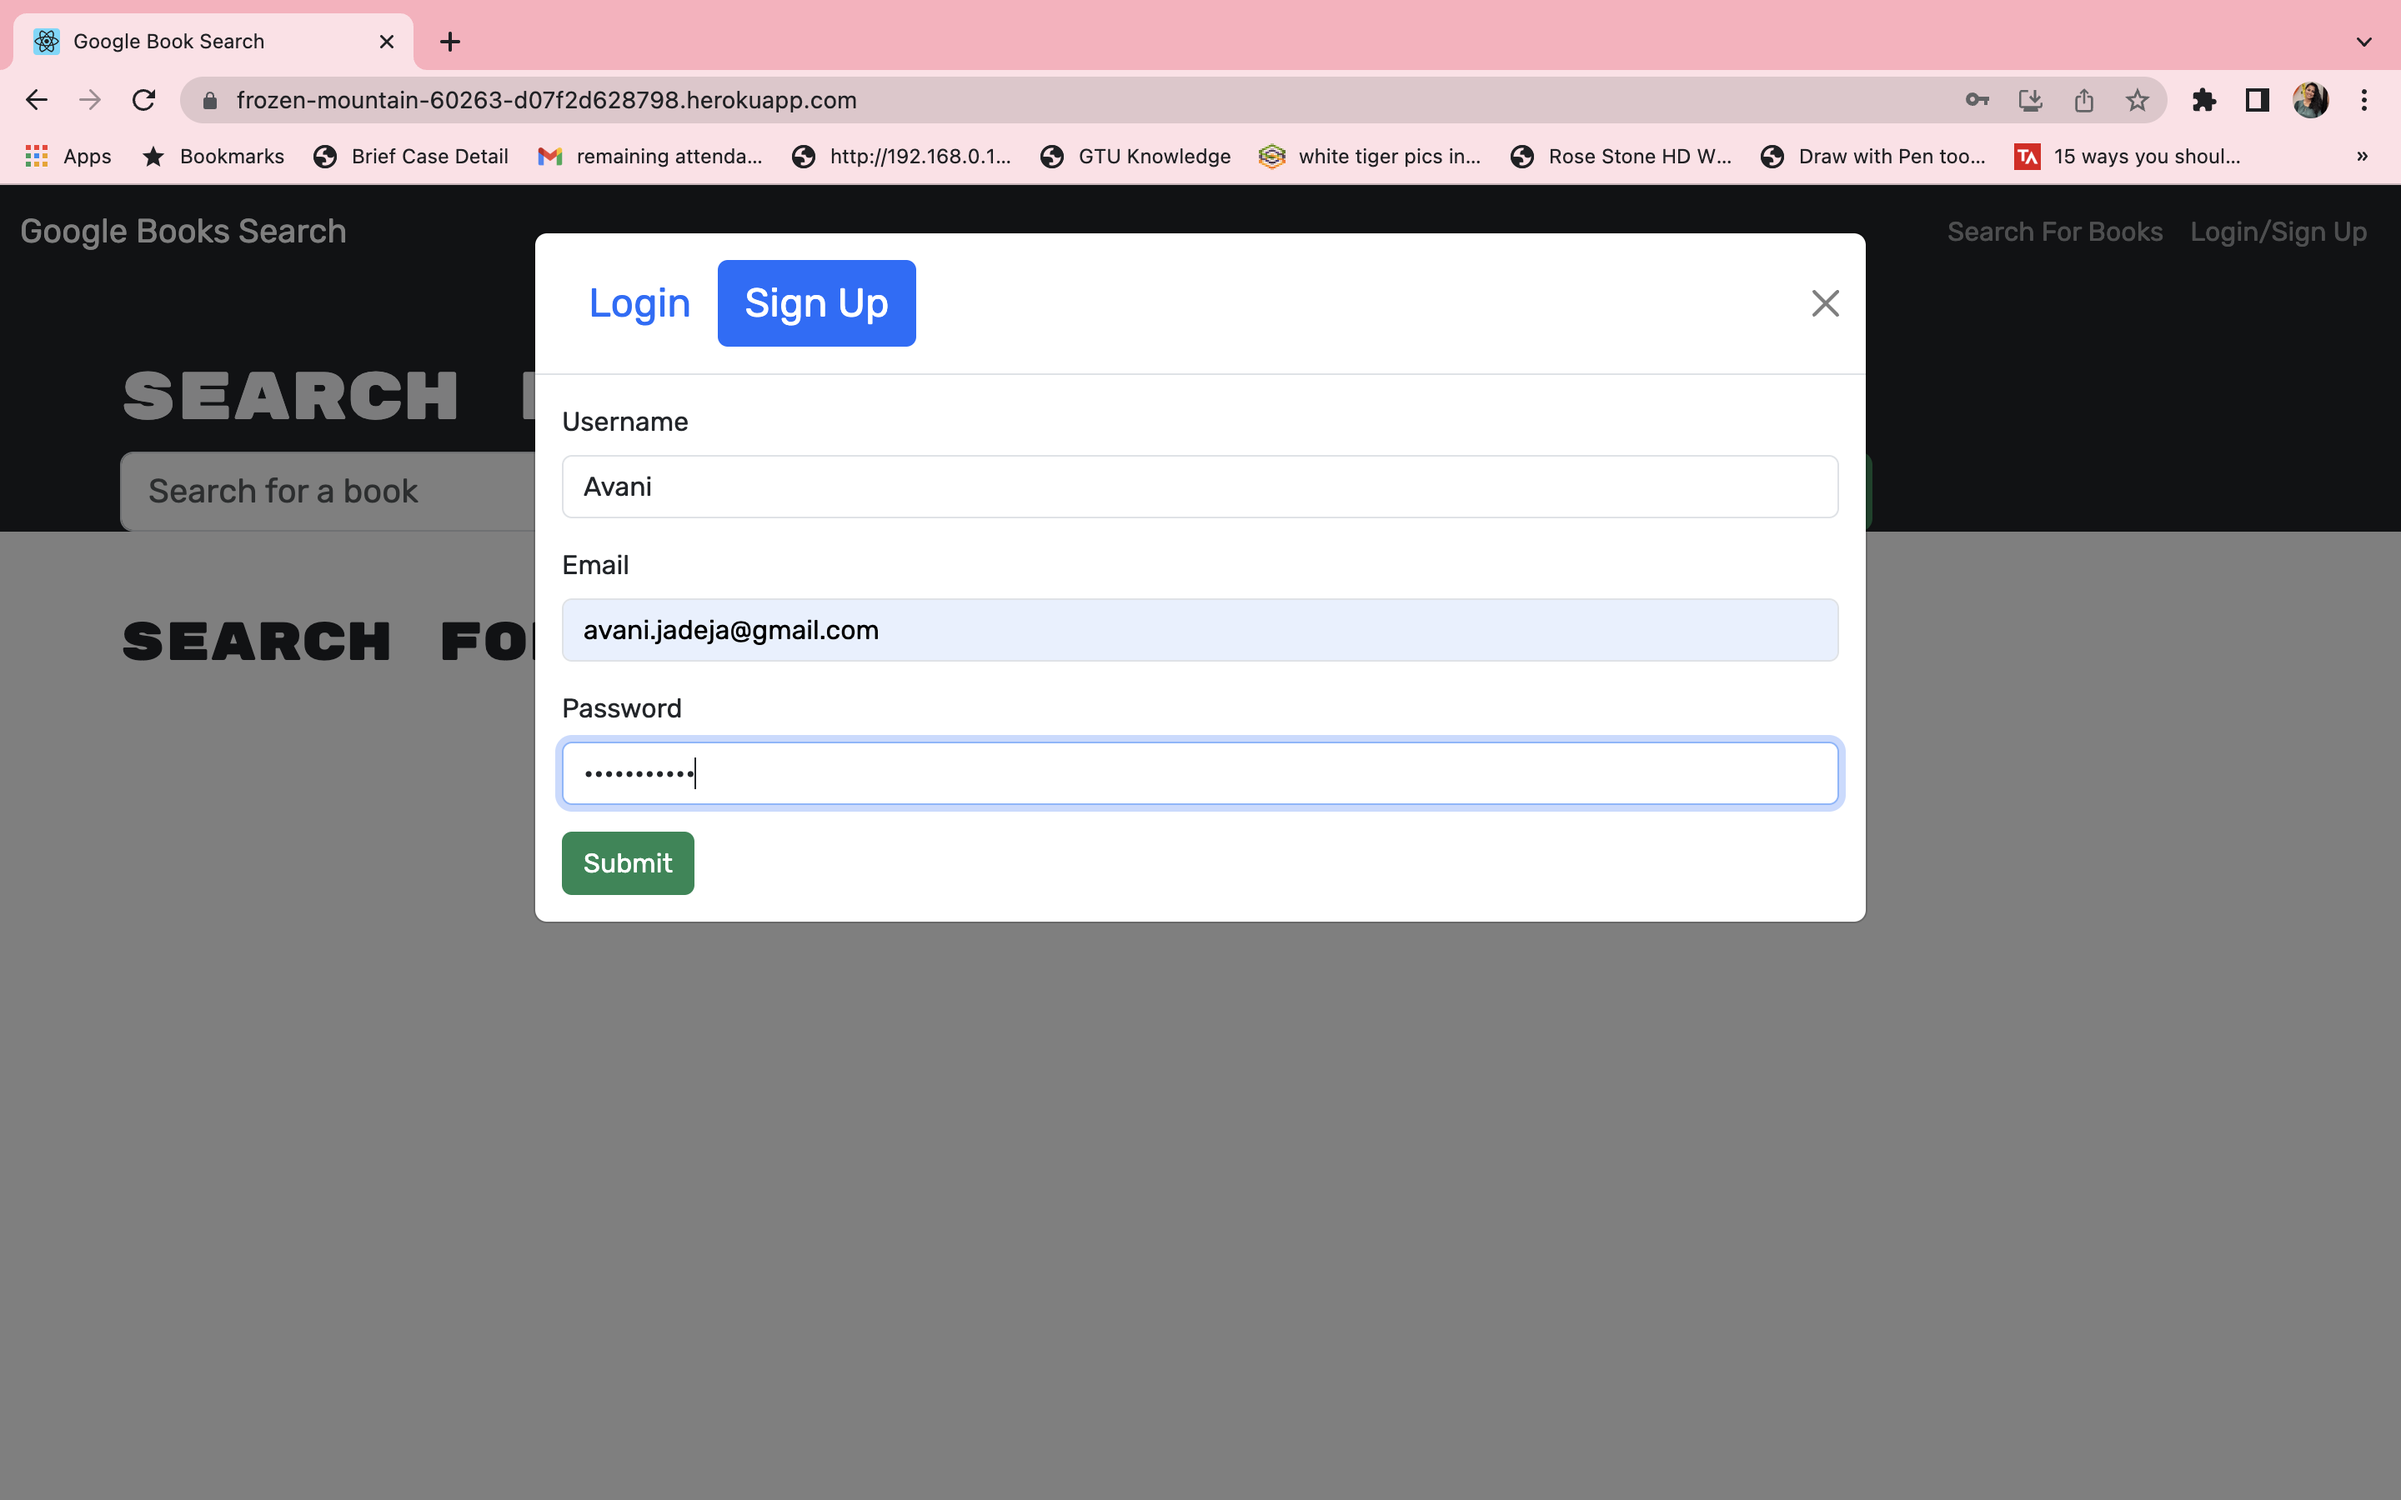
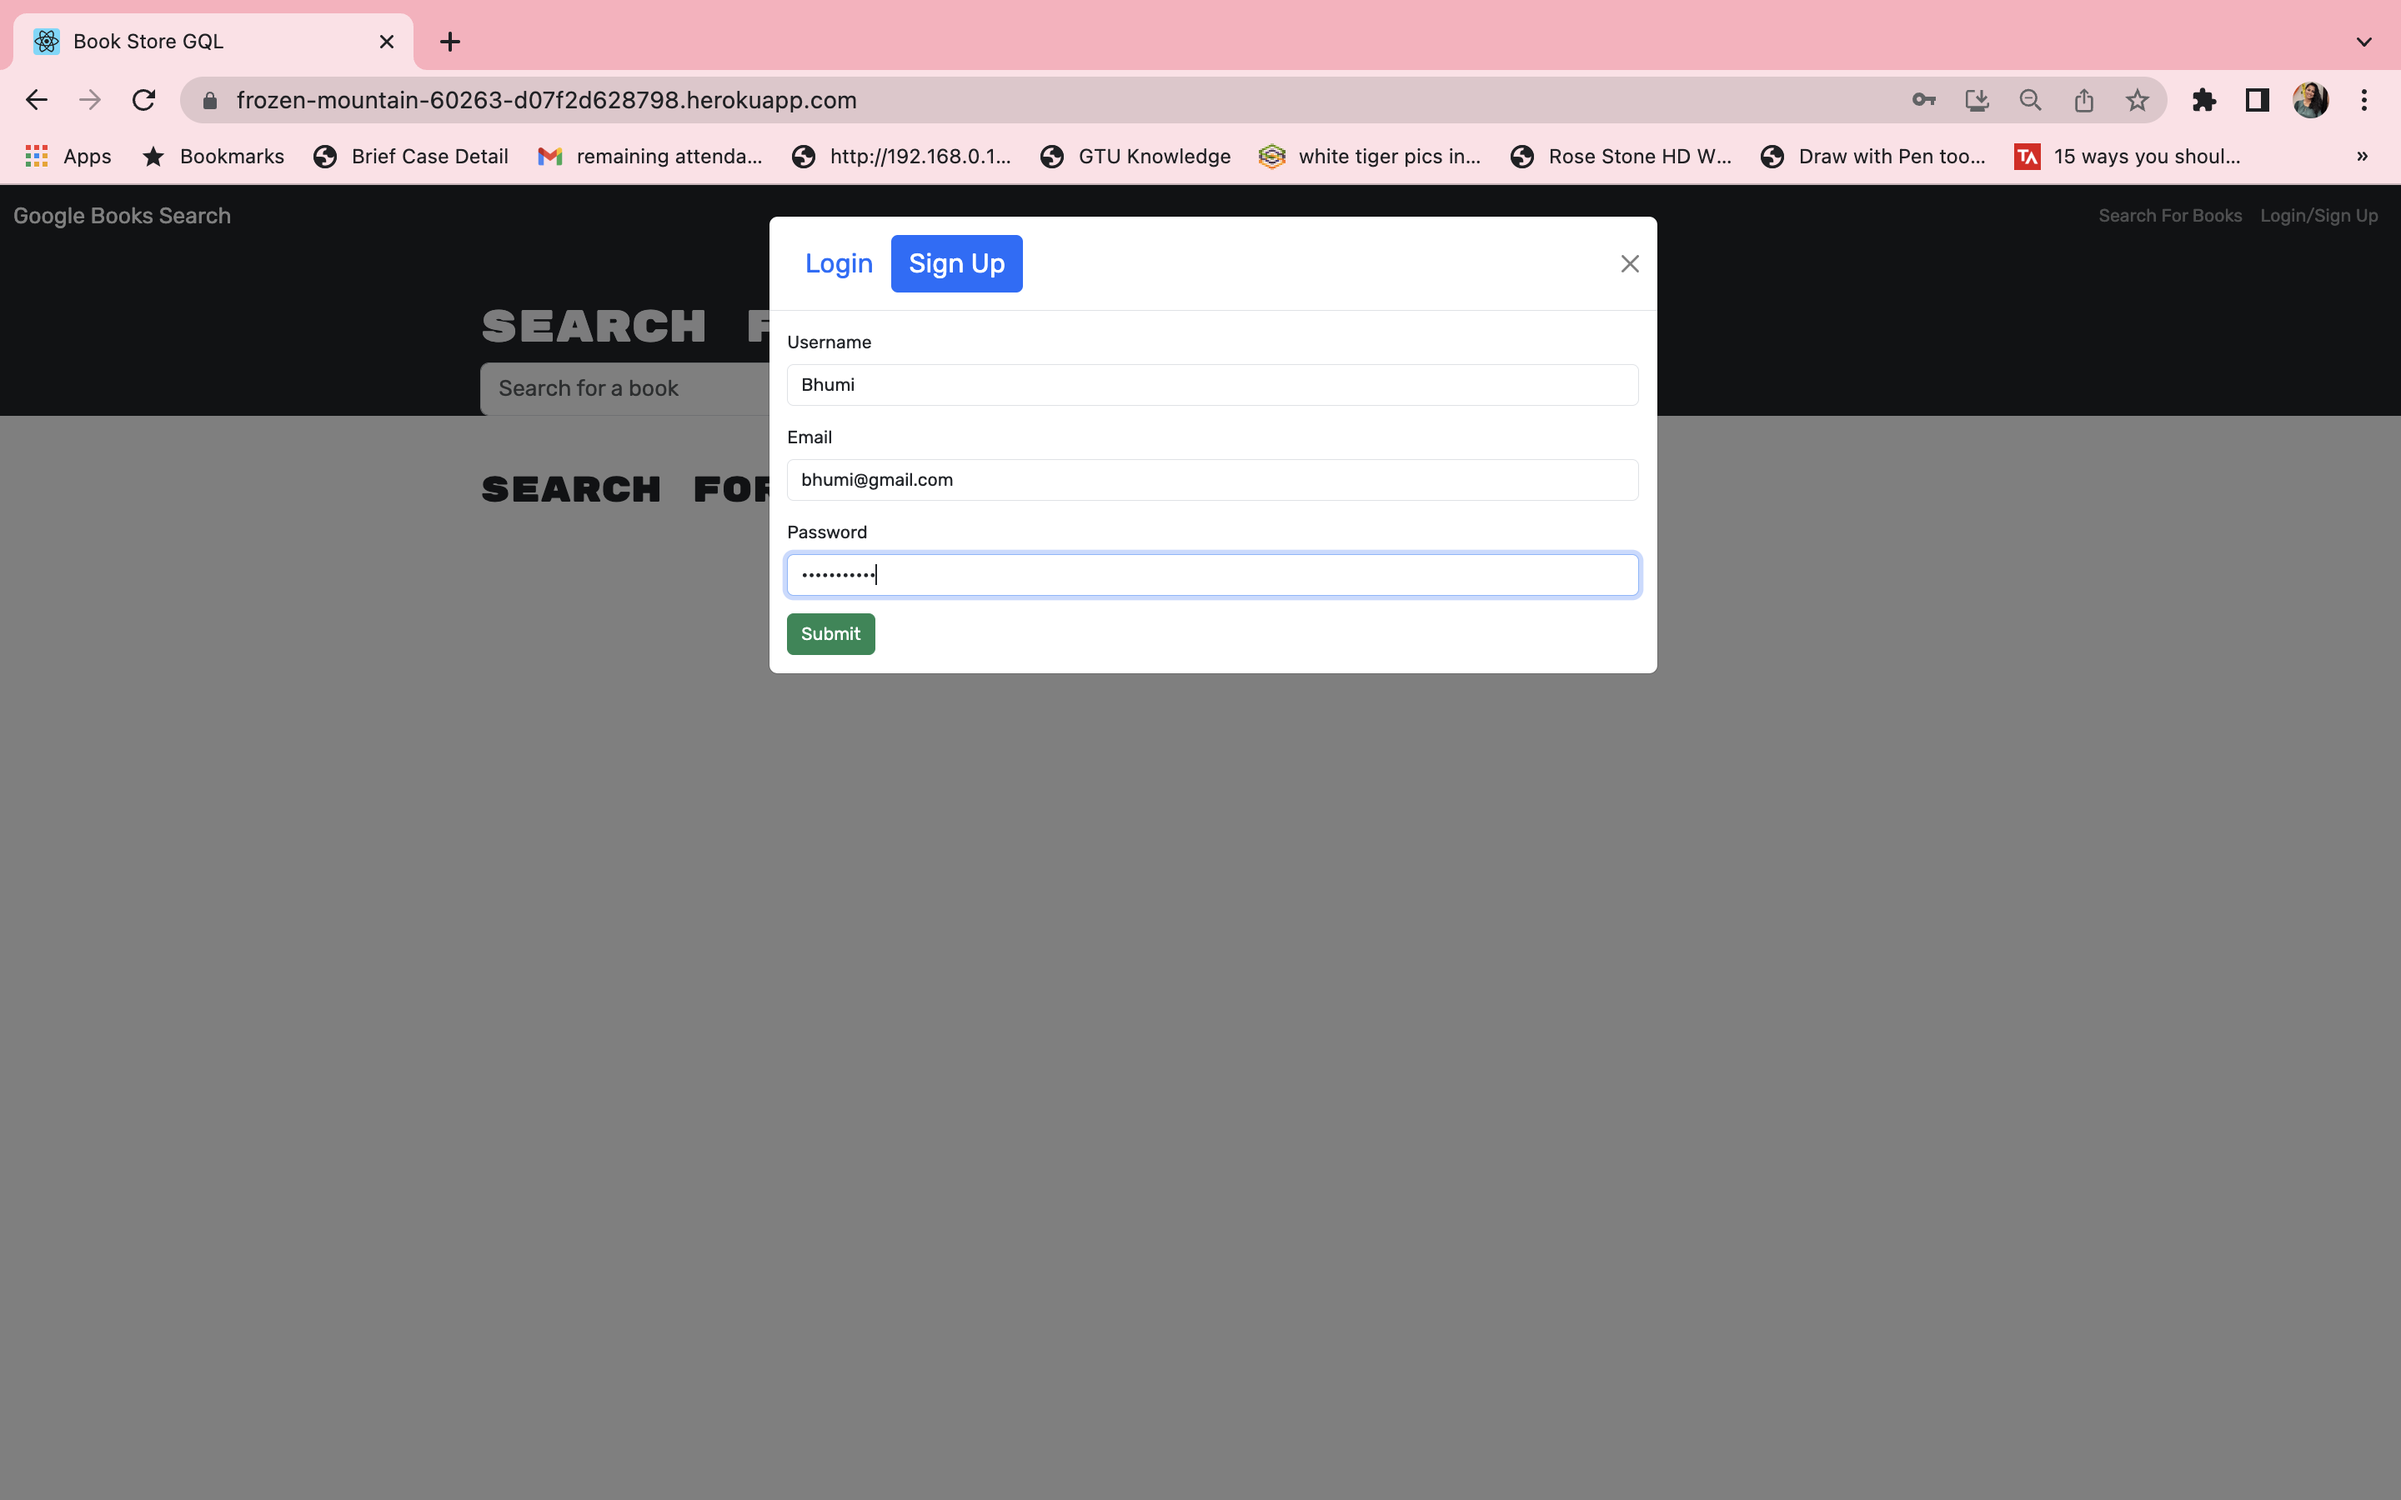
Added screenshot and gif

diff --git a/client/src/assets/SignupForm.js b/client/src/assets/SignupForm.js
@@ -1,0 +1,138 @@
+// import react and useState
+import React, { useState } from "react";
+import { Form, Button, Alert } from "react-bootstrap";
+// import useMutation form apollo/client
+import { useMutation } from "@apollo/client";
+// import mutation
+import { ADD_USER } from "../utils/mutations";
+// import auth
+import Auth from "../utils/auth";
+
+// signupForm function
+const SignupForm = () => {
+  // useMutation for ADD_USER
+  const [addUser, { error, loading }] = useMutation(ADD_USER);
+
+  // set initial values for userFormData useState varibles
+  const [userFormData, setUserFormData] = useState({
+    username: "",
+    email: "",
+    password: "",
+  });
+
+  // useState for validated
+  const [validated, setValidated] = useState(false);
+
+  // useState for showAlert
+  const [showAlert, setShowAlert] = useState(false);
+
+  // handleInputChange event for FormData
+  const handleInputChange = (event) => {
+    const { name, value } = event.target;
+    setUserFormData({ ...userFormData, [name]: value });
+  };
+
+  // handleInputSubmit when submit click
+  const handleFormSubmit = async (event) => {
+    event.preventDefault();
+
+    // check form data
+    const form = event.currentTarget;
+    if (form.checkValidity() === false) {
+      event.preventDefault();
+      event.stopPropagation();
+    }
+
+    try {
+      const { data } = await addUser({ variables: { ...userFormData } });
+      Auth.login(data.addUser.token);
+    } catch (err) {
+      setShowAlert(true);
+    }
+
+    // setUserFromData values
+    setUserFormData({
+      username: "",
+      email: "",
+      password: "",
+    });
+  };
+
+  return (
+    <>
+      {/* This is needed for the validation functionality above */}
+      <Form noValidate validated={validated} onSubmit={handleFormSubmit}>
+        {/* show alert if server response is bad */}
+        <Alert
+          dismissible
+          onClose={() => setShowAlert(false)}
+          show={showAlert}
+          variant="danger"
+        >
+          Something went wrong with your signup!
+        </Alert>
+
+        <Form.Group className="mb-3">
+          <Form.Label htmlFor="username">Username</Form.Label>
+          <Form.Control
+            type="text"
+            placeholder="Your username"
+            name="username"
+            onChange={handleInputChange}
+            value={userFormData.username}
+            required
+          />
+          <Form.Control.Feedback type="invalid">
+            Username is required!
+          </Form.Control.Feedback>
+        </Form.Group>
+
+        <Form.Group className="mb-3">
+          <Form.Label htmlFor="email">Email</Form.Label>
+          <Form.Control
+            type="email"
+            placeholder="Your email address"
+            name="email"
+            onChange={handleInputChange}
+            value={userFormData.email}
+            required
+          />
+          <Form.Control.Feedback type="invalid">
+            Email is required!
+          </Form.Control.Feedback>
+        </Form.Group>
+
+        <Form.Group className="mb-3">
+          <Form.Label htmlFor="password">Password</Form.Label>
+          <Form.Control
+            type="password"
+            placeholder="Your password"
+            name="password"
+            onChange={handleInputChange}
+            value={userFormData.password}
+            required
+          />
+          <Form.Control.Feedback type="invalid">
+            Password is required!
+          </Form.Control.Feedback>
+        </Form.Group>
+        <Button
+          disabled={
+            !(
+              userFormData.username &&
+              userFormData.email &&
+              userFormData.password
+            )
+          }
+          type="submit"
+          variant="success"
+        >
+          Submit
+        </Button>
+      </Form>
+      {error && <div>Sign up failed</div>}
+    </>
+  );
+};
+
+export default SignupForm;

diff --git a/client/public/index.html b/client/public/index.html
@@ -29,7 +29,7 @@
       rel="stylesheet"
     />
 
-    <title>Book Store GQL</title>
+    <title>Book Store using GraphQL</title>
   </head>
 
   <body>

diff --git a/README.md b/README.md
@@ -63,11 +63,11 @@ For this MERN application,
 
 ![signUp](./client/src/assets/images/signup.png)
 ![login](./client/src/assets/images/login.png)
-![bookSearch](./client/src/assets/images/serachBook.png)
+![bookSearch](./client/src/assets/images/searchBook.png)
 ![bookSave](./client/src/assets/images/bookSave.png)
 ![seeBook](./client/src/assets/images/seeYourBook.png)
 
-![bookserachengineGIF](./client/src/assets/images/book-serach-engine.gif)
+![bookserachengineGIF](./client/src/assets/images/BookStoreGQL.gif)
 
 The URL of the functional, deployed application - https://frozen-mountain-60263-d07f2d628798.herokuapp.com/
 
